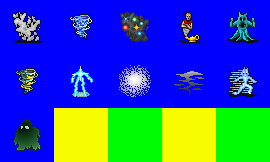
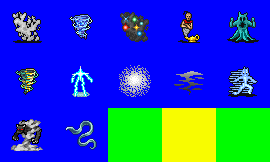
Added celestial monsters

Changed region(s): [[0.0296, 0.6481, 0.4148, 1.0]]

diff --git a/monsters/celestial.py b/monsters/celestial.py
@@ -1,0 +1,187 @@
+import base
+import stats
+import items
+import dialogue
+import context
+import aibrain
+import effects
+import animobs
+import targetarea
+import invocations
+import animals
+import enchantments
+import spells
+import treasuretype
+
+#  *******************************
+#  ***   ENCOUNTER  LEVEL  1   ***
+#  *******************************
+
+
+#  *******************************
+#  ***   ENCOUNTER  LEVEL  2   ***
+#  *******************************
+
+#  *******************************
+#  ***   ENCOUNTER  LEVEL  3   ***
+#  *******************************
+
+#  *******************************
+#  ***   ENCOUNTER  LEVEL  4   ***
+#  *******************************
+
+#  *******************************
+#  ***   ENCOUNTER  LEVEL  5   ***
+#  *******************************
+
+#  *******************************
+#  ***   ENCOUNTER  LEVEL  6   ***
+#  *******************************
+
+#  *******************************
+#  ***   ENCOUNTER  LEVEL  7   ***
+#  *******************************
+
+#  *******************************
+#  ***   ENCOUNTER  LEVEL  8   ***
+#  *******************************
+
+#  *******************************
+#  ***   ENCOUNTER  LEVEL  9   ***
+#  *******************************
+
+
+
+#  ********************************
+#  ***   ENCOUNTER  LEVEL  10   ***
+#  ********************************
+
+#  ********************************
+#  ***   ENCOUNTER  LEVEL  11   ***
+#  ********************************
+
+class Avoral( base.Monster ):
+    name = "Avoral"
+    statline = { stats.STRENGTH: 15, stats.TOUGHNESS: 20, stats.REFLEXES: 23, \
+        stats.INTELLIGENCE: 15, stats.PIETY: 16, stats.CHARISMA: 16, \
+        stats.AWARENESS: 65, stats.MAGIC_DEFENSE: 25 }
+    SPRITENAME = "monster_celestial.png"
+    FRAME = 12
+    TEMPLATES = (stats.CELESTIAL,stats.AIR)
+    MOVE_POINTS = 16
+    HABITAT = ( context.SET_EVERY,
+     context.DES_SOLAR, context.DES_AIR,
+     context.MTY_HUMANOID, context.MTY_CELESTIAL )
+    ENC_LEVEL = 12
+    COMBAT_AI = aibrain.ArcherAI()
+    TREASURE = treasuretype.Standard()
+    TECHNIQUES = ( invocations.Invocation("Avoral Missile",
+        effects.HealthDamage((1,8,0), stat_bonus=stats.INTELLIGENCE, element=stats.RESIST_LUNAR, anim=animobs.PurpleExplosion ),
+        com_tar=targetarea.SingleTarget(), shot_anim=animobs.WizardMissile,
+        ai_tar=invocations.TargetEnemy() ),
+      invocations.Invocation( "Hold Person",
+        effects.OpposedRoll( att_modifier=20, on_success = (
+            effects.Paralyze( max_duration = 3 )
+        ,), on_failure =(
+            effects.NoEffect( anim=animobs.SmallBoom )
+        ,) ), com_tar=targetarea.SingleTarget(), shot_anim=animobs.BlueComet,
+        ai_tar=invocations.TargetMobileEnemy() ),
+      invocations.MPInvocation( "Thunder Strike",
+        effects.OpposedRoll( on_success = (
+            effects.HealthDamage( (3,6,0), stat_bonus=stats.INTELLIGENCE, element=stats.RESIST_LIGHTNING, anim=animobs.Spark )
+        ,), on_failure = (
+            effects.HealthDamage( (1,8,0), stat_bonus=None, element=stats.RESIST_LIGHTNING, anim=animobs.Spark )
+        ,) ), mp_cost=16, com_tar=targetarea.Line(), ai_tar=invocations.TargetEnemy() )
+    )
+    ATTACK = items.Attack( (2,8,0), element = stats.RESIST_SLASHING )
+    def init_monster( self ):
+        self.levels.append( base.Terror( 7, self ) )
+
+#  ********************************
+#  ***   ENCOUNTER  LEVEL  12   ***
+#  ********************************
+
+class HoundArchon( base.Monster ):
+    name = "Hound Archon"
+    statline = { stats.STRENGTH: 23, stats.TOUGHNESS: 17, stats.REFLEXES: 8, \
+        stats.INTELLIGENCE: 10, stats.PIETY: 13, stats.CHARISMA: 12, \
+        stats.AWARENESS: 25, stats.CRITICAL_HIT: 20 }
+    SPRITENAME = "monster_celestial.png"
+    FRAME = 0
+    TEMPLATES = (stats.CELESTIAL,)
+    MOVE_POINTS = 16
+    HABITAT = ( context.SET_EVERY,
+     context.DES_SOLAR,
+     context.MTY_HUMANOID, context.MTY_CELESTIAL )
+    ENC_LEVEL = 12
+    TREASURE = treasuretype.HighItems( ( None, items.POTION, items.SWORD ) )
+    TECHNIQUES = ( spells.priestspells.HEROISM, )
+    ATTACK = items.Attack( (2,6,0), element = stats.RESIST_SLASHING, extra_effect =
+        effects.HealthDamage( (1,4,0), stat_bonus=stats.INTELLIGENCE, element=stats.RESIST_SOLAR, anim=animobs.YellowExplosion )
+    )
+    def init_monster( self ):
+        self.levels.append( base.Humanoid( 14, self ) )
+
+
+
+#  ********************************
+#  ***   ENCOUNTER  LEVEL  13   ***
+#  ********************************
+
+#  ********************************
+#  ***   ENCOUNTER  LEVEL  14   ***
+#  ********************************
+
+#  ********************************
+#  ***   ENCOUNTER  LEVEL  15   ***
+#  ********************************
+
+#  ********************************
+#  ***   ENCOUNTER  LEVEL  16   ***
+#  ********************************
+
+#  ********************************
+#  ***   ENCOUNTER  LEVEL  17   ***
+#  ********************************
+
+
+#  ********************************
+#  ***   ENCOUNTER  LEVEL  18   ***
+#  ********************************
+
+class Planetar( base.Monster ):
+    name = "Planetar"
+    statline = { stats.STRENGTH: 25, stats.TOUGHNESS: 20, stats.REFLEXES: 19, \
+        stats.INTELLIGENCE: 22, stats.PIETY: 23, stats.CHARISMA: 22,
+        stats.MAGIC_DEFENSE: 50, stats.RESIST_CRUSHING: 75, stats.RESIST_PIERCING: 75,
+        stats.RESIST_SLASHING: 75 }
+    SPRITENAME = "monster_celestial.png"
+    FRAME = 4
+    TEMPLATES = (stats.CELESTIAL,)
+    MOVE_POINTS = 12
+    HABITAT = ( context.SET_EVERY,
+     context.DES_SOLAR, context.MTY_CELESTIAL )
+    ENC_LEVEL = 18
+    TREASURE = treasuretype.HighItems( ( None, items.POTION, items.SCROLL ) )
+    ATTACK = items.Attack( (3,6,0), element = stats.RESIST_SLASHING, extra_effect =
+        effects.HealthDamage( (1,10,0), stat_bonus=stats.INTELLIGENCE, element=stats.RESIST_SOLAR, anim=animobs.YellowExplosion )
+    )
+    # Planetars are supposed to get a whole lot more abilities; fill in later.
+    TECHNIQUES = ( spells.solarspells.RENEWAL, spells.solarspells.SUNBURST,
+
+    )
+    def init_monster( self ):
+        self.levels.append( base.Terror( 16, self ) )
+        self.condition.append( enchantments.PermaMegaRegeneration() )
+
+
+#  ********************************
+#  ***   ENCOUNTER  LEVEL  19   ***
+#  ********************************
+
+
+#  ********************************
+#  ***   ENCOUNTER  LEVEL  20   ***
+#  ********************************
+
+

diff --git a/spells/priestspells.py b/spells/priestspells.py
@@ -147,7 +147,7 @@ JUSTICE = Spell( "Justice",
 
 DIVINE_AID = Spell( "Divine Aid",
     "A celestial being will answer your call to aid you in this combat.",
-    effects.CallMonster( {context.MTY_CELESTIAL: True, context.DES_SOLAR: context.MAYBE, context.DES_SOLAR: context.MAYBE}, 12, anim=animobs.YellowSparkle ),
+    effects.CallMonster( {context.MTY_CELESTIAL: True, context.DES_SOLAR: context.MAYBE, context.DES_WATER: context.MAYBE}, 12, anim=animobs.YellowSparkle ),
     rank=6, gems={WATER:2,SOLAR:2}, com_tar=targetarea.SingleTarget(reach=2), ai_tar=invocations.TargetEmptySpot(), mpfudge = 12 )
 
 
@@ -159,7 +159,7 @@ DIVINE_AID = Spell( "Divine Aid",
 
 DIVINE_WRATH = Spell( "Divine Wrath",
     "A powerful celestial being will answer your call to aid you in this combat.",
-    effects.CallMonster( {context.MTY_CELESTIAL: True, context.DES_SOLAR: context.MAYBE, context.DES_SOLAR: context.MAYBE}, 18, anim=animobs.YellowSparkle ),
+    effects.CallMonster( {context.MTY_CELESTIAL: True, context.DES_SOLAR: context.MAYBE, context.DES_WATER: context.MAYBE}, 18, anim=animobs.YellowSparkle ),
     rank=9, gems={WATER:3,SOLAR:3}, com_tar=targetarea.SingleTarget(reach=4), ai_tar=invocations.TargetEmptySpot(), mpfudge = 20 )
 
 

diff --git a/effects.py b/effects.py
@@ -524,16 +524,17 @@ class MagicMap( NoEffect ):
 
 
 ANIMAL = {stats.UNDEAD: False, stats.DEMON: False, stats.ELEMENTAL: False, \
-    stats.PLANT: False, stats.CONSTRUCT: False}
+    stats.PLANT: False, stats.CONSTRUCT: False, stats.CELESTIAL: False}
 ALIVE = {stats.UNDEAD: False, stats.DEMON: False, stats.ELEMENTAL: False, \
-    stats.CONSTRUCT: False}
+    stats.CONSTRUCT: False, stats.CELESTIAL: False}
 CAN_DROWN = {stats.UNDEAD: False, stats.DEMON: False, stats.ELEMENTAL: False, \
-    stats.PLANT: False, stats.CONSTRUCT: False, stats.WATER: False}
+    stats.PLANT: False, stats.CONSTRUCT: False, stats.WATER: False, 
+    stats.CELESTIAL: False}
 PLANT = {stats.PLANT: True }
 UNDEAD = {stats.UNDEAD: True }
 UNHOLY = {(stats.UNDEAD,stats.DEMON): True }
 CONSTRUCT = {(stats.CONSTRUCT,stats.BONE): True }
-OTHERWORLDLY = { (stats.UNDEAD,stats.DEMON,stats.ELEMENTAL): True }
+OTHERWORLDLY = { (stats.UNDEAD,stats.DEMON,stats.ELEMENTAL,stats.CELESTIAL): True }
 
 class TargetIs( NoEffect ):
     """An effect that branches depending on if target matches provided pattern."""

diff --git a/services.py b/services.py
@@ -677,6 +677,7 @@ class Temple( object ):
             pc = rpm.query()
             if pc:
                 if explo.camp.gold >= self.resurrection_cost( pc ):
+                    pos = self.get_return_pos( explo )
                     explo.camp.gold -= self.resurrection_cost( pc )
                     pc.hp_damage = 0
                     pc.mp_damage = 0
@@ -687,7 +688,6 @@ class Temple( object ):
                         explo.camp.graveyard.remove( pc )
                         explo.camp.party.append( pc )
                     if pc in explo.camp.party:
-                        pos = self.get_return_pos( explo )
                         pc.place( explo.scene, pos )
                     else:
                         explo.camp.graveyard.remove( pc )

diff --git a/enchantments.py b/enchantments.py
@@ -139,6 +139,13 @@ class IronSkinEn( Enchantment ):
         super(IronSkinEn, self).__init__(statline=stats.StatMod({stats.RESIST_SLASHING:75,stats.RESIST_CRUSHING:75,stats.RESIST_PIERCING:75
             ,stats.PHYSICAL_DEFENSE:10,stats.NATURAL_DEFENSE:10,stats.MAGIC_DEFENSE:10}),dispel=(COMBAT,MAGIC))
 
+class ManaLeak( Enchantment ):
+    NAME = "Mana Leak"
+    def __init__( self ):
+        super(ManaLeak, self).__init__(dispel=(MAGIC,CURSE,DAILY))
+    FX = effects.ManaDamage( (2,6,0), stat_bonus=None, anim=animobs.PurpleExplosion )
+    MAX_USES = 10
+
 class PermaRegeneration( Enchantment ):
     # Basically like normal regeneration, but may not be dispelled.
     def __init__( self ):

diff --git a/stats.py b/stats.py
@@ -161,6 +161,11 @@ ELEMENTAL = SingTemp( "ELEMENTAL", { NATURAL_DEFENSE: 5, MAGIC_DEFENSE: -5, \
     RESIST_ATOMIC: -100, RESIST_POISON: 155 }, xp_mod=10 )
 DEMON = SingTemp( "DEMON", { MAGIC_DEFENSE: 5, RESIST_FIRE: 75, RESIST_LUNAR: 75, \
     RESIST_SOLAR: -100, RESIST_POISON: 100 }, xp_mod=15 )
+CELESTIAL = SingTemp( "CELESTIAL", { NATURAL_DEFENSE: 10, MAGIC_DEFENSE:10,
+    RESIST_ACID: 100, RESIST_COLD: 100, \
+    RESIST_FIRE: 50, RESIST_LIGHTNING: 50,
+    RESIST_SOLAR: 100, RESIST_POISON: 75 }, xp_mod=25 )
+
 BUG = SingTemp( "BUG", { NATURAL_DEFENSE: 10, MAGIC_DEFENSE: -10, \
     RESIST_SLASHING: 50, RESIST_CRUSHING: -50, RESIST_ACID: -100,
     RESIST_POISON: -100 })

diff --git a/monsters/__init__.py b/monsters/__init__.py
@@ -14,6 +14,7 @@ from dialogue import voice
 import animals
 import aquan
 import auran
+import celestial
 import chaos
 import constructs
 import draconic
@@ -38,6 +39,7 @@ def harvest( mod ):
 harvest( animals )
 harvest( aquan )
 harvest( auran )
+harvest( celestial )
 harvest( chaos )
 harvest( constructs )
 harvest( draconic )
